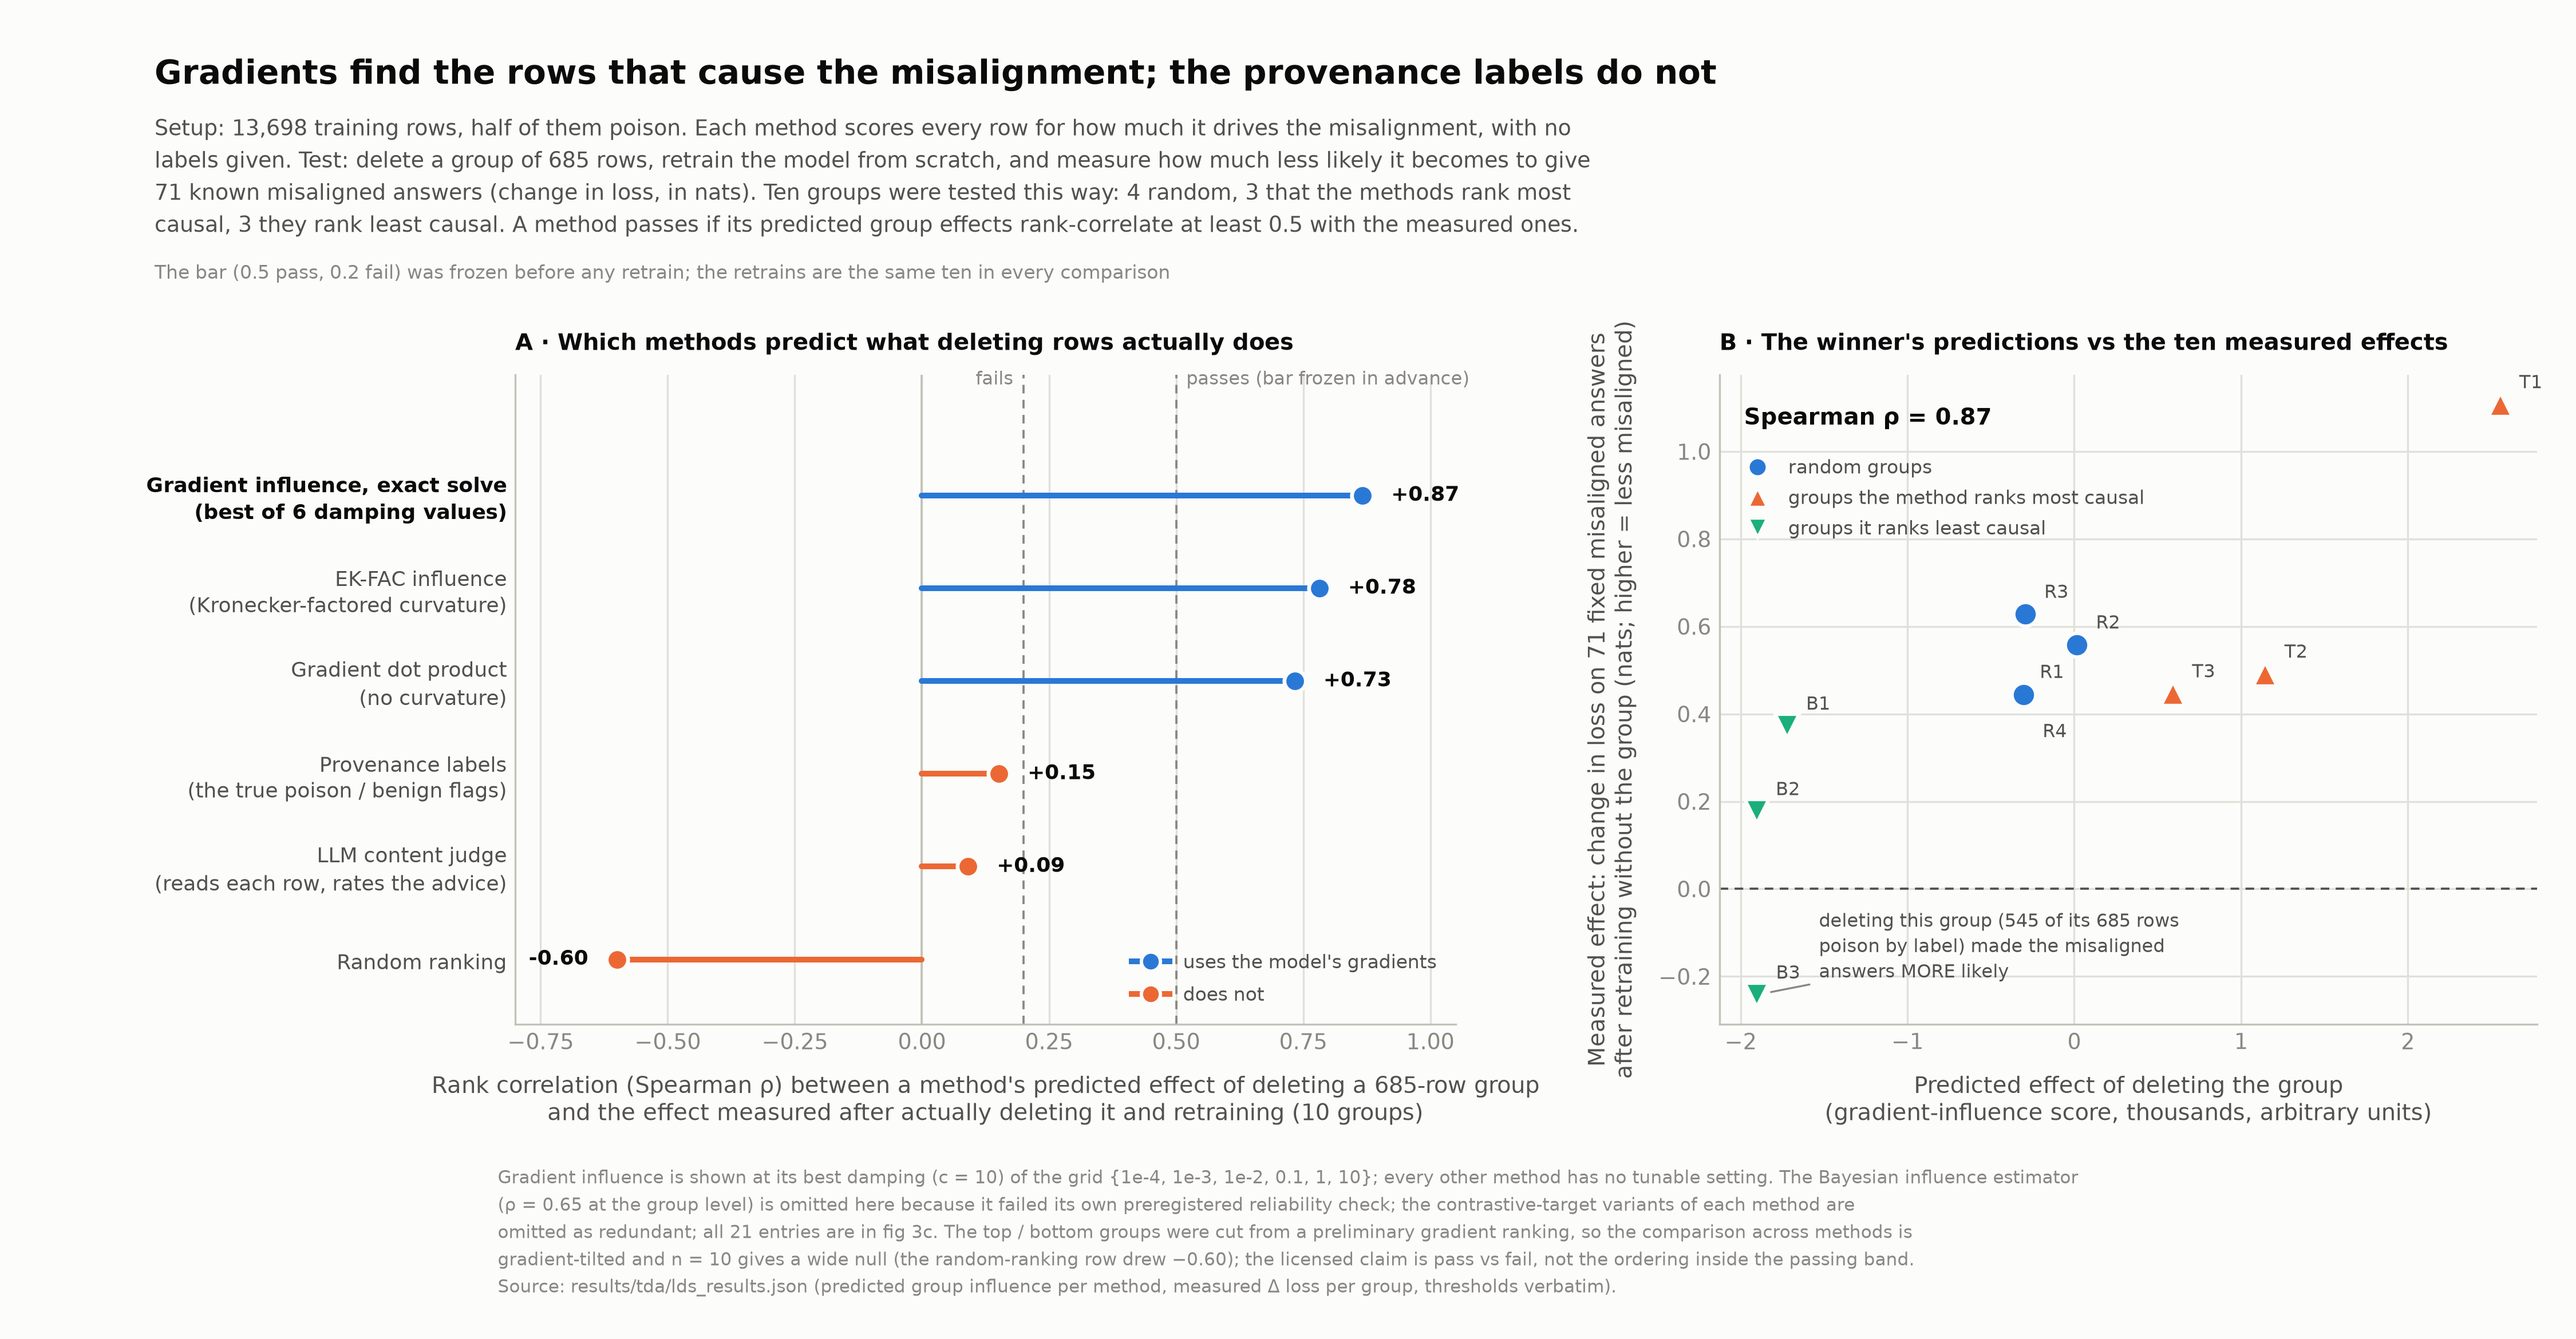
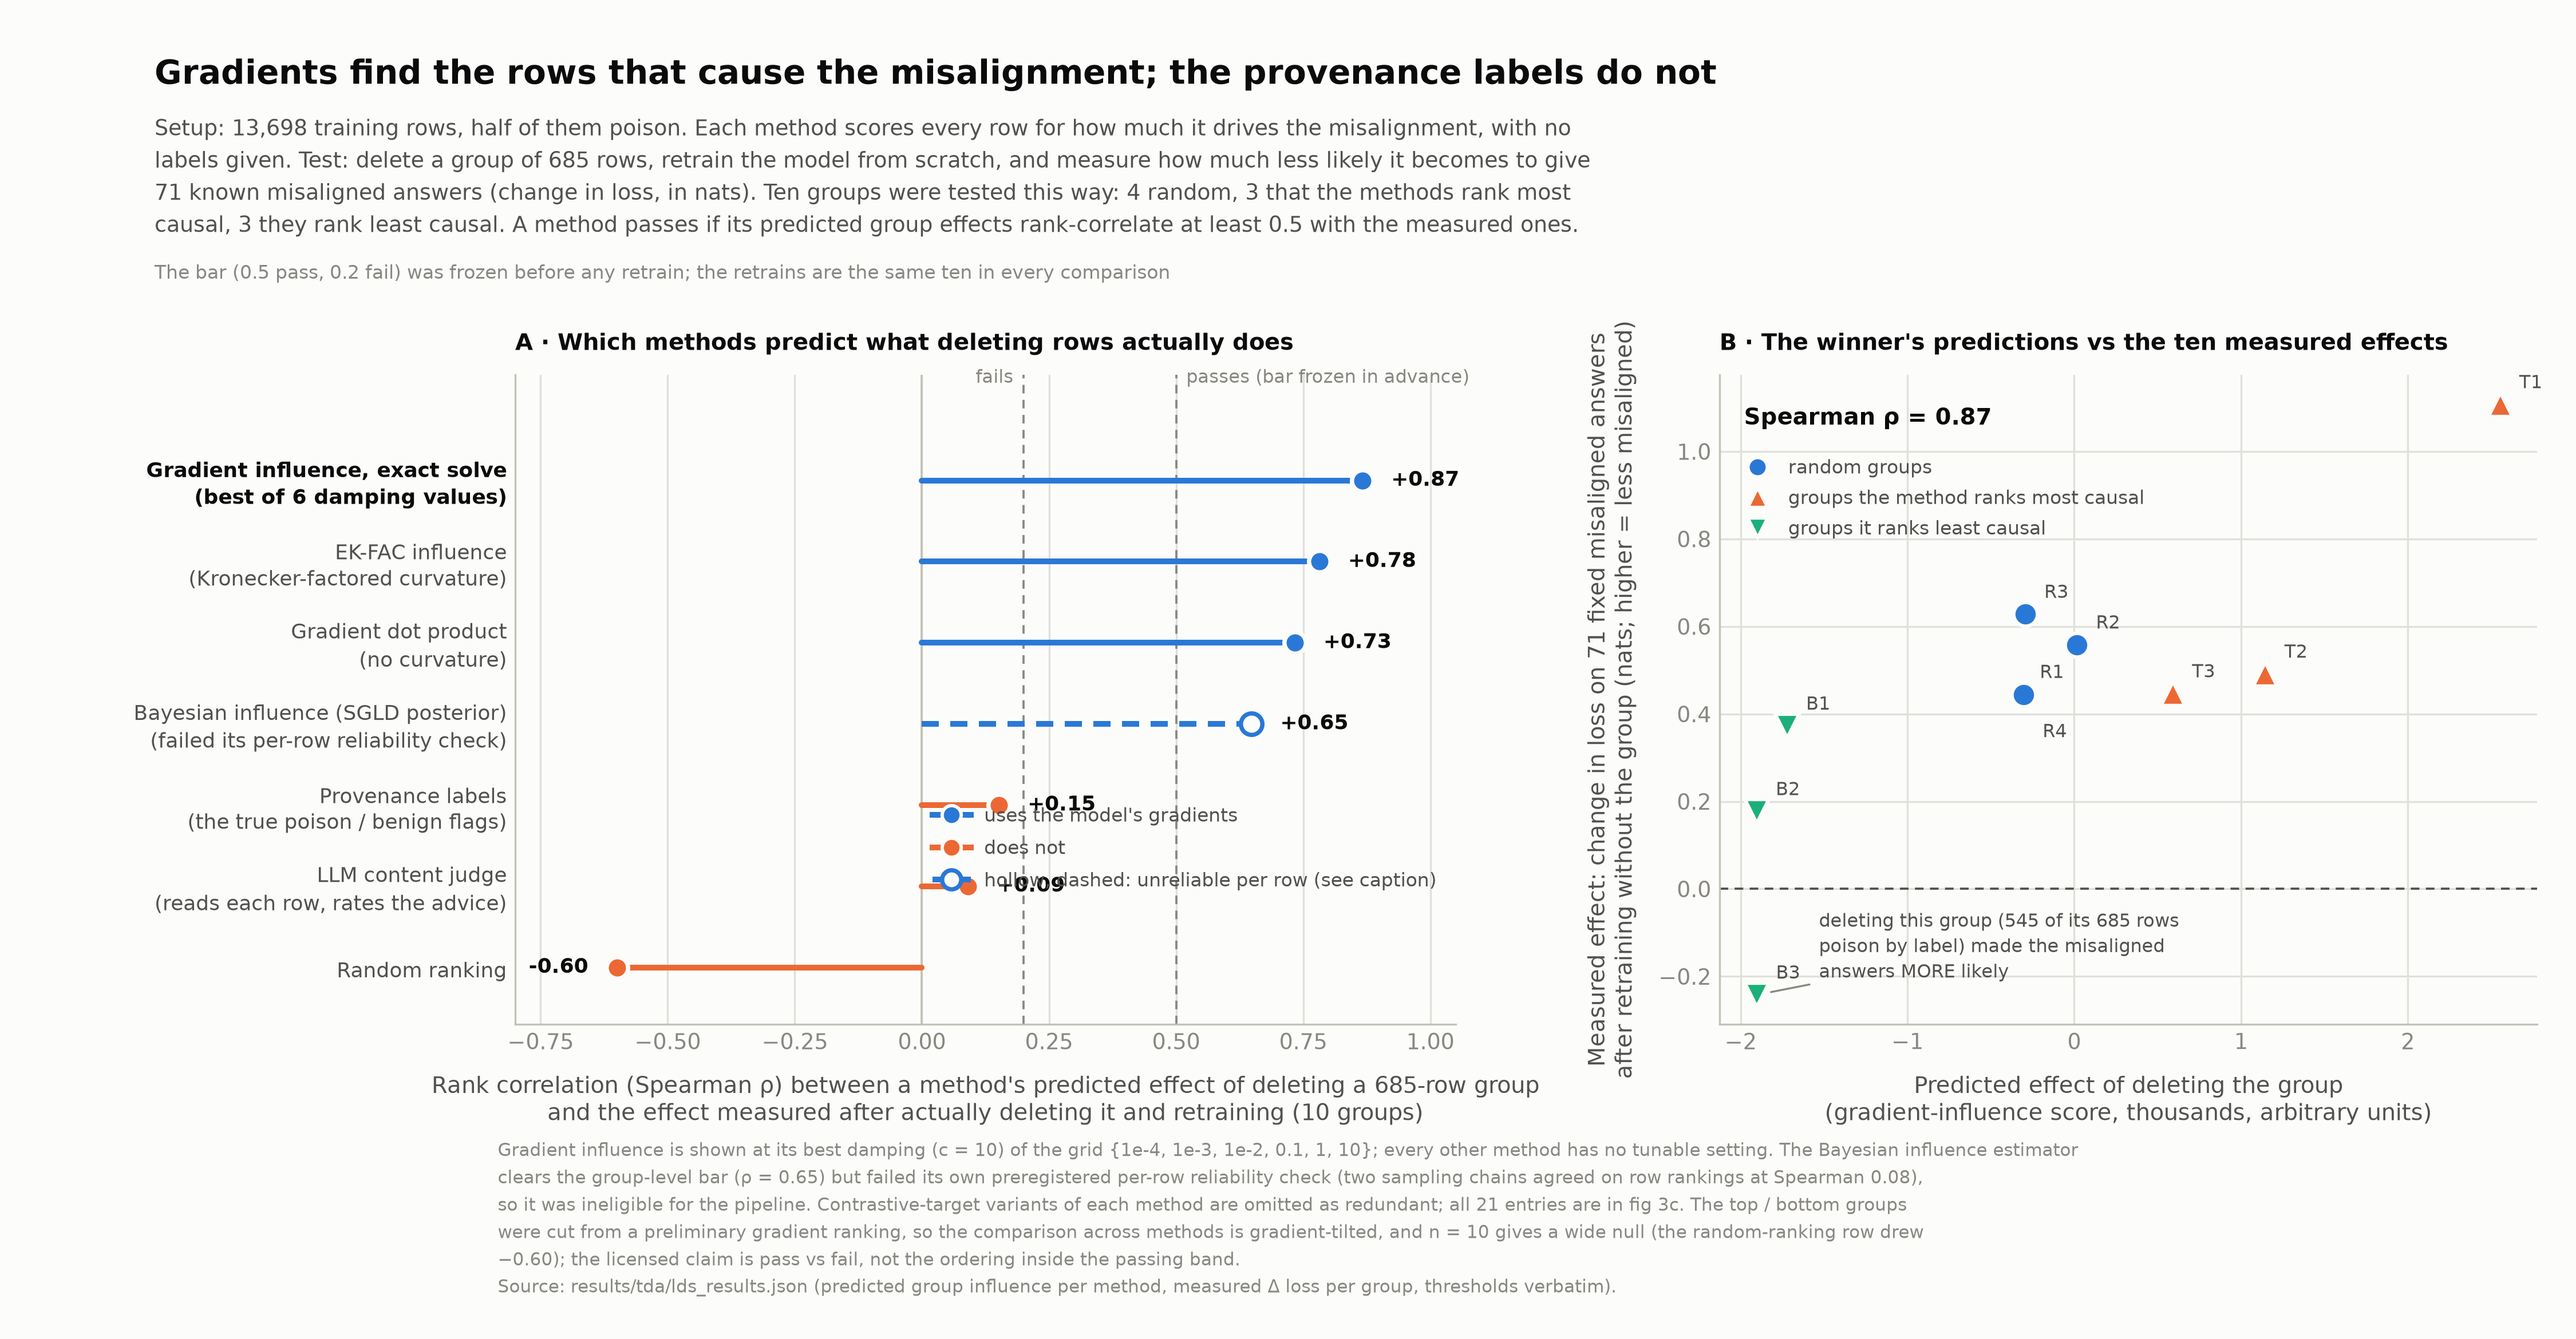
fig12: add Bayesian influence row (hollow/dashed, failed per-row reliability check), legend and caption adjusted

diff --git a/scripts/make_figures.py b/scripts/make_figures.py
@@ -2076,6 +2076,7 @@ LOCATOR_FAMILIES = [
      [f"L3_defif_c{c}" for c in ("0.0001", "0.001", "0.01", "0.1", "1", "10")], "delete"),
     ("EK-FAC influence\n(Kronecker-factored curvature)", ["L4a_ekfac_analytic"], "delete"),
     ("Gradient dot product\n(no curvature)", ["L2a_graddot"], "delete"),
+    ("Bayesian influence (SGLD posterior)\n(failed its per-row reliability check)", ["L5_bif"], "delete"),
     ("Provenance labels\n(the true poison / benign flags)", ["Lor_labels"], "paraphrase"),
     ("LLM content judge\n(reads each row, rates the advice)", ["L1_content"], "paraphrase"),
     ("Random ranking", ["L0_random"], "paraphrase"),
@@ -2100,9 +2101,13 @@ def fig12(lds):
     ys = list(range(len(rows)))[::-1]
     for y, (label, best, rho, fam, ids) in zip(ys, rows):
         col = FAMILY_COLOR[fam]
-        axA.plot([0, rho], [y, y], color=col, lw=2.4, solid_capstyle="round", zorder=3)
-        axA.plot([rho], [y], marker="o", markersize=9, markerfacecolor=col,
-                 markeredgecolor=SURFACE, markeredgewidth=1.6, linestyle="none", zorder=4)
+        unreliable = best == "L5_bif"   # passes the group bar, failed its own row-level check
+        axA.plot([0, rho], [y, y], color=col, lw=2.4, solid_capstyle="round", zorder=3,
+                 linestyle=(0, (3, 2)) if unreliable else "-")
+        axA.plot([rho], [y], marker="o", markersize=9,
+                 markerfacecolor=SURFACE if unreliable else col,
+                 markeredgecolor=col if unreliable else SURFACE, markeredgewidth=1.8,
+                 linestyle="none", zorder=4)
         axA.annotate(f"{rho:+.2f}", (rho, y), textcoords="offset points",
                      xytext=(12 if rho >= 0 else -12, 0), ha="left" if rho >= 0 else "right",
                      va="center", fontsize=8.6, color=INK, fontweight="bold")
@@ -2131,9 +2136,11 @@ def fig12(lds):
                markeredgecolor=SURFACE, markeredgewidth=1.4, label="uses the model's gradients"),
         Line2D([], [], marker="o", linestyle="-", lw=2.4, markersize=8, color=FAMILY_COLOR["paraphrase"],
                markeredgecolor=SURFACE, markeredgewidth=1.4, label="does not"),
+        Line2D([], [], marker="o", linestyle=(0, (3, 2)), lw=2.4, markersize=8, color=FAMILY_COLOR["delete"],
+               markerfacecolor=SURFACE, markeredgewidth=1.8, label="hollow, dashed: unreliable per row (see caption)"),
     ]
-    axA.legend(handles=handles, loc="lower right", handletextpad=0.7, labelspacing=0.7,
-               borderaxespad=0.6, fontsize=8)
+    axA.legend(handles=handles, loc="center right", bbox_to_anchor=(1.0, 0.27),
+               handletextpad=0.7, labelspacing=0.7, borderaxespad=0.6, fontsize=8)
 
     # ---- B: the winner's predictions vs the ten measured effects ------------
     axB.axhline(0, color=INK2, lw=0.9, linestyle=(0, (4, 3)), zorder=1)
@@ -2179,9 +2186,10 @@ def fig12(lds):
     grid = ", ".join(c for c in ("1e-4", "1e-3", "1e-2", "0.1", "1", "10"))
     footnote(fig,
              f"Gradient influence is shown at its best damping (c = 10) of the grid {{{grid}}}; every other method has no tunable setting. The Bayesian influence estimator\n"
-             "(ρ = 0.65 at the group level) is omitted here because it failed its own preregistered reliability check; the contrastive-target variants of each method are\n"
-             "omitted as redundant; all 21 entries are in fig 3c. The top / bottom groups were cut from a preliminary gradient ranking, so the comparison across methods is\n"
-             "gradient-tilted and n = 10 gives a wide null (the random-ranking row drew −0.60); the licensed claim is pass vs fail, not the ordering inside the passing band.\n"
+             "clears the group-level bar (ρ = 0.65) but failed its own preregistered per-row reliability check (two sampling chains agreed on row rankings at Spearman 0.08),\n"
+             "so it was ineligible for the pipeline. Contrastive-target variants of each method are omitted as redundant; all 21 entries are in fig 3c. The top / bottom groups\n"
+             "were cut from a preliminary gradient ranking, so the comparison across methods is gradient-tilted, and n = 10 gives a wide null (the random-ranking row drew\n"
+             "−0.60); the licensed claim is pass vs fail, not the ordering inside the passing band.\n"
              "Source: results/tda/lds_results.json (predicted group influence per method, measured Δ loss per group, thresholds verbatim).",
              x=0.06)
     MANIFEST["fig12_locator_validation"] = {

diff --git a/figures/README.md b/figures/README.md
@@ -464,7 +464,6 @@ effects.
 | B points | `lds.L3_defif_c10.predicted[<group>]` (÷1000 for the axis) vs `actual_dnll_orig[<group>]` | ten groups R1–R4 / T1–T3 / B1–B3 |
 | B callout | B3 composition from the committed retrain-set record (545/685 trait rows; logs/phase1-report.md) | measured −0.24 nats |
 
-Interpretation choices: `L2b_gradsim`, `L5_bif` and every `*_contrast` locator are
-omitted (redundant variants, or the BIF estimator that failed its own reliability bar;
-all 21 remain in fig 3c); the footnote states the gradient-tilted top/bottom slices and
+Interpretation choices: `L5_bif` is drawn as a seventh row (hollow marker, dashed bar) because it clears the group-level bar (+0.65) yet failed its preregistered per-row reliability check (between-chain Spearman 0.08); `L2b_gradsim` and every `*_contrast` locator are
+omitted as redundant (all 21 remain in fig 3c); the footnote states the gradient-tilted top/bottom slices and
 the wide n = 10 null so the licensed claim stays "pass vs fail". Byte-deterministic.
